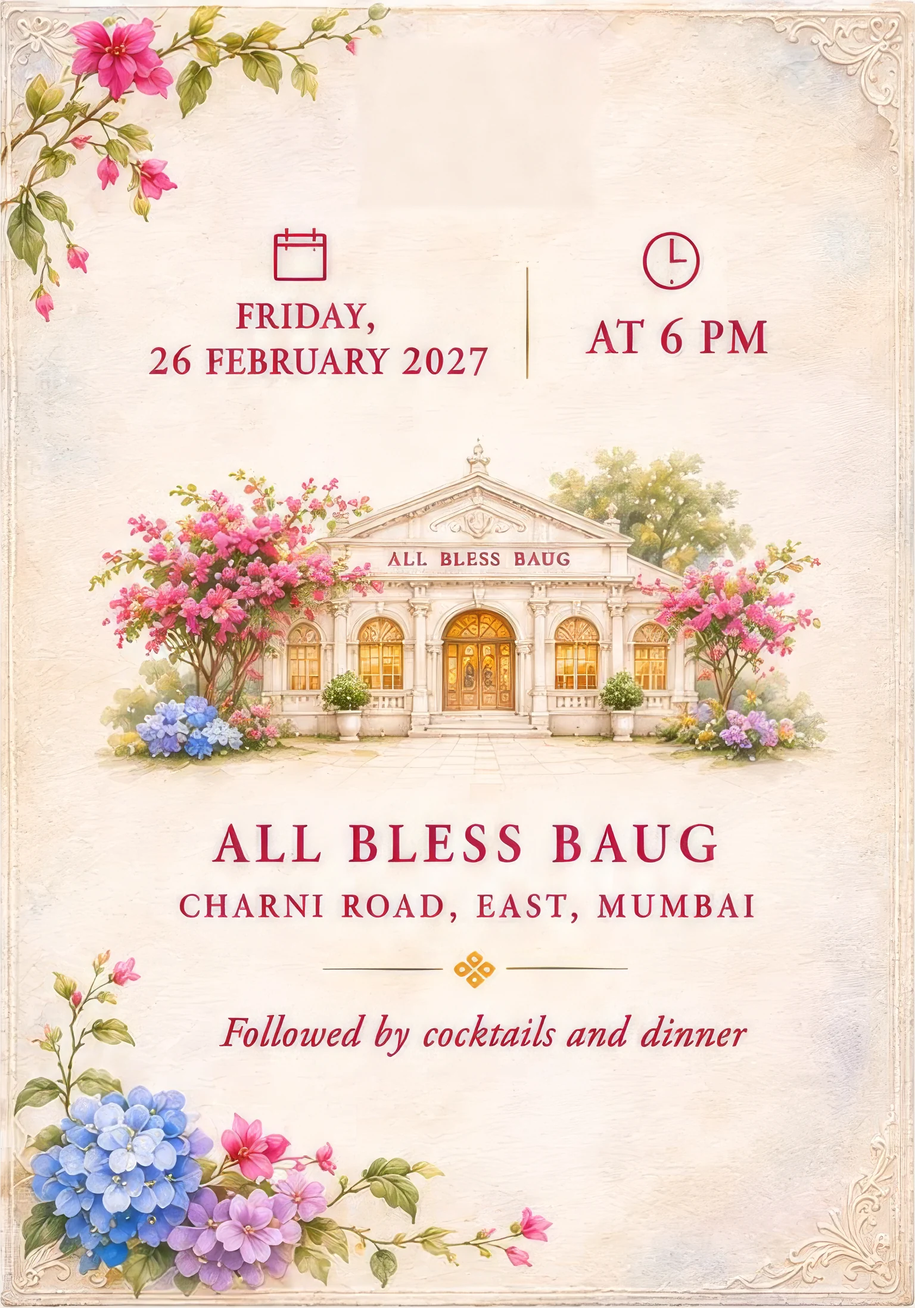
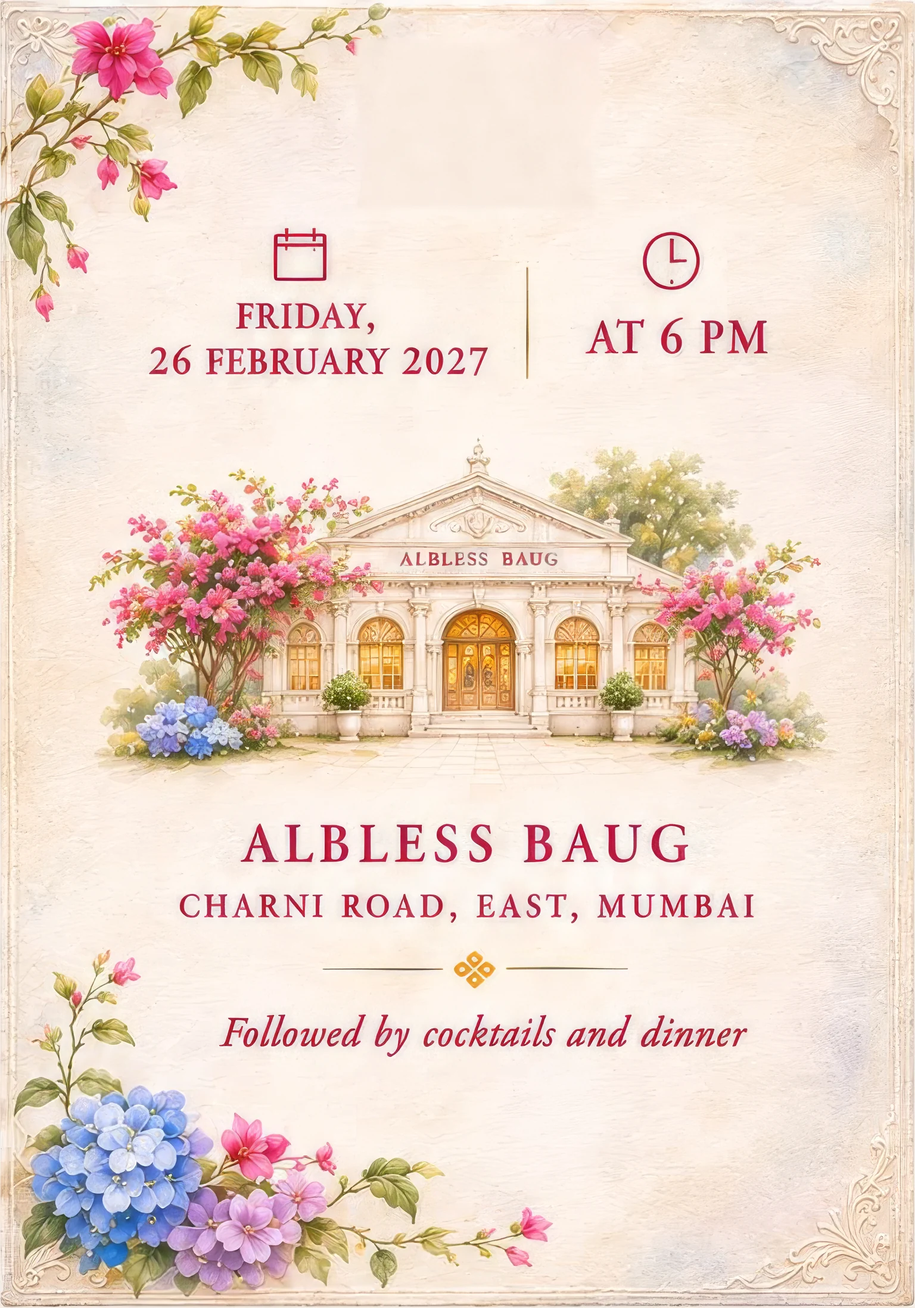
Bluebird preview: Albless Baug spelling and page-3 hummingbird
- Venue reads "Albless Baug" on the venue page and the building's sign,
  re-laid from the design's own letters (done by the RSVP session at the
  owner's request), with matching page text.
- Page 3: a watercolour hummingbird brings a bougainvillea blossom, hovers
  by the ses and drops petals onto the tray each time the page opens.

Changed region(s): [[0.25, 0.6193, 0.7812, 0.6812], [0.4375, 0.4026, 0.625, 0.4335]]

diff --git a/bluebird/bluebird-art.css b/bluebird/bluebird-art.css
@@ -26,3 +26,36 @@
 .print-invitation .print-emblem{left:37.331%;top:15.315%;width:24.565%}
 .print-details .print-emblem{left:39.844%;top:4.838%;width:24.805%}
 .print-families .print-emblem{left:37.137%;top:4.662%;width:24.758%}
+
+/* Page 3: a hummingbird brings a bougainvillea blossom, hovers over the ses and drops petals onto the tray.
+   Plays each time page 3 becomes the open page (app.js sets aria-hidden on the leaves). */
+.hb-flight{position:absolute;left:52.5%;top:51.5%;width:27.0%;aspect-ratio:1.1808;z-index:4;pointer-events:none;opacity:0}
+.hb-flight>span{position:absolute;inset:0;background:url("../assets/art/bluebird/hummingbird-hover.webp?v=bluebird-8") 0 0/400% 100% no-repeat;animation:hb-wingbeat .16s steps(4,jump-none) infinite;filter:drop-shadow(0 4px 5px rgba(60,40,50,.18))}
+@keyframes hb-wingbeat{from{background-position:0 0}to{background-position:100% 0}}
+.leaf[data-page="3"][aria-hidden="false"] .hb-flight{animation:hb-visit 5.6s .5s cubic-bezier(.4,.05,.45,.95) both}
+@keyframes hb-visit{0%{opacity:1;transform:translate(215%,-70%) rotate(-6deg)}22%{opacity:1;transform:translate(0,0) rotate(0)}30%{transform:translate(-2%,-5%)}38%{transform:translate(1%,2%)}46%{transform:translate(-3%,-4%)}54%{transform:translate(0,3%)}62%{opacity:1;transform:translate(-6%,0) rotate(2deg)}82%{opacity:1;transform:translate(-160%,-190%) rotate(-12deg)}100%{opacity:0;transform:translate(-380%,-430%) rotate(-16deg)}}
+.fall-petal{position:absolute;z-index:3;height:auto;pointer-events:none;opacity:0}
+.fall-petal--1{left:37.03%;top:83.88%;width:7.93%}
+.leaf[data-page="3"][aria-hidden="false"] .fall-petal--1{animation:petal-fall-1 2.3s 2.05s cubic-bezier(.35,.1,.6,1) both}
+@keyframes petal-fall-1{0%{opacity:0;transform:translate(234%,-1242%) rotate(0) scale(.55)}6%{opacity:1}35%{transform:translate(75%,-770%) rotate(28deg) scale(.8)}70%{transform:translate(89%,-273%) rotate(-22deg) scale(.95)}100%{opacity:1;transform:translate(0,0) rotate(-14deg) scale(1)}}
+.fall-petal--2{left:49.05%;top:86.28%;width:6.90%}
+.leaf[data-page="3"][aria-hidden="false"] .fall-petal--2{animation:petal-fall-2 2.3s 2.5s cubic-bezier(.35,.1,.6,1) both}
+@keyframes petal-fall-2{0%{opacity:0;transform:translate(102%,-1333%) rotate(0) scale(.55)}6%{opacity:1}35%{transform:translate(133%,-826%) rotate(-18deg) scale(.8)}70%{transform:translate(-22%,-293%) rotate(14deg) scale(.95)}100%{opacity:1;transform:translate(0,0) rotate(9deg) scale(1)}}
+.fall-petal--3{left:58.62%;top:83.17%;width:6.77%}
+.leaf[data-page="3"][aria-hidden="false"] .fall-petal--3{animation:petal-fall-3 2.3s 2.95s cubic-bezier(.35,.1,.6,1) both}
+@keyframes petal-fall-3{0%{opacity:0;transform:translate(-36%,-1122%) rotate(0) scale(.55)}6%{opacity:1}35%{transform:translate(-92%,-696%) rotate(12deg) scale(.8)}70%{transform:translate(35%,-247%) rotate(-10deg) scale(.95)}100%{opacity:1;transform:translate(0,0) rotate(-6deg) scale(1)}}
+.fall-petal--4{left:43.71%;top:81.69%;width:6.58%}
+.leaf[data-page="3"][aria-hidden="false"] .fall-petal--4{animation:petal-fall-4 2.3s 3.4s cubic-bezier(.35,.1,.6,1) both}
+@keyframes petal-fall-4{0%{opacity:0;transform:translate(191%,-1264%) rotate(0) scale(.55)}6%{opacity:1}35%{transform:translate(188%,-784%) rotate(-34deg) scale(.8)}70%{transform:translate(-4%,-278%) rotate(27deg) scale(.95)}100%{opacity:1;transform:translate(0,0) rotate(17deg) scale(1)}}
+.leaf.is-turning .fall-petal{opacity:1}
+/* Ruzbeh's families page has a longer list, so the hummingbird hovers lower there. */
+.print-families--groom .hb-flight{top:56.5%}
+.leaf[data-page="3"][aria-hidden="false"] .print-families--groom .fall-petal--1{animation-name:petal-fall-g1}
+@keyframes petal-fall-g1{0%{opacity:0;transform:translate(200%,-905%) rotate(0) scale(.55)}6%{opacity:1}35%{transform:translate(54%,-561%) rotate(28deg) scale(.8)}70%{transform:translate(82%,-199%) rotate(-22deg) scale(.95)}100%{opacity:1;transform:translate(0,0) rotate(-14deg) scale(1)}}
+.leaf[data-page="3"][aria-hidden="false"] .print-families--groom .fall-petal--2{animation-name:petal-fall-g2}
+@keyframes petal-fall-g2{0%{opacity:0;transform:translate(63%,-996%) rotate(0) scale(.55)}6%{opacity:1}35%{transform:translate(109%,-618%) rotate(-18deg) scale(.8)}70%{transform:translate(-29%,-219%) rotate(14deg) scale(.95)}100%{opacity:1;transform:translate(0,0) rotate(9deg) scale(1)}}
+.leaf[data-page="3"][aria-hidden="false"] .print-families--groom .fall-petal--3{animation-name:petal-fall-g3}
+@keyframes petal-fall-g3{0%{opacity:0;transform:translate(-76%,-813%) rotate(0) scale(.55)}6%{opacity:1}35%{transform:translate(-117%,-504%) rotate(12deg) scale(.8)}70%{transform:translate(27%,-179%) rotate(-10deg) scale(.95)}100%{opacity:1;transform:translate(0,0) rotate(-6deg) scale(1)}}
+.leaf[data-page="3"][aria-hidden="false"] .print-families--groom .fall-petal--4{animation-name:petal-fall-g4}
+@keyframes petal-fall-g4{0%{opacity:0;transform:translate(150%,-896%) rotate(0) scale(.55)}6%{opacity:1}35%{transform:translate(163%,-555%) rotate(-34deg) scale(.8)}70%{transform:translate(-12%,-197%) rotate(27deg) scale(.95)}100%{opacity:1;transform:translate(0,0) rotate(17deg) scale(1)}}
+@media(prefers-reduced-motion:reduce){.hb-flight{display:none}.fall-petal{opacity:1}.leaf[data-page="3"][aria-hidden="false"] .fall-petal{animation:none;opacity:1}}

diff --git a/bluebird/index.html b/bluebird/index.html
@@ -4,11 +4,11 @@
   <meta charset="utf-8">
   <meta name="viewport" content="width=device-width, initial-scale=1, viewport-fit=cover">
   <meta name="theme-color" content="#f4ebe2">
-  <meta name="description" content="Naazlina and Zarir Patwa invite you to the wedding of Rukhshana with Ruzbeh on Friday, 26 February 2027, 6 PM, All Bless Baug, Mumbai.">
+  <meta name="description" content="Naazlina and Zarir Patwa invite you to the wedding of Rukhshana with Ruzbeh on Friday, 26 February 2027, 6 PM, Albless Baug, Mumbai.">
   <meta name="referrer" content="no-referrer">
   <meta name="robots" content="noindex">
   <meta property="og:title" content="Rukhshana &amp; Ruzbeh · Wedding Invitation">
-  <meta property="og:description" content="Friday, 26 February 2027 · 6 PM · All Bless Baug, Mumbai">
+  <meta property="og:description" content="Friday, 26 February 2027 · 6 PM · Albless Baug, Mumbai">
   <meta property="og:type" content="website">
   <title>Rukhshana &amp; Ruzbeh</title>
   <link rel="icon" href="data:,">
@@ -21,7 +21,7 @@
   <link rel="stylesheet" href="parents-handover.css?v=bluebird-4">
   <link rel="stylesheet" href="real-flowers.css?v=bluebird-4">
   <link rel="stylesheet" href="bluebird.css?v=bluebird-6">
-  <link rel="stylesheet" href="bluebird-art.css?v=bluebird-7">
+  <link rel="stylesheet" href="bluebird-art.css?v=bluebird-9">
   <link rel="stylesheet" href="bluebird-rsvp.css?v=rsvp-2">
   <script src="app.js?v=bluebird-5-rsvp1" defer></script>
 </head>
@@ -112,7 +112,7 @@
         <div class="face face--front">
           <section class="page print-page" aria-label="Page 2 of 4">
             <div class="print-canvas print-details">
-              <img class="print-frame" src="../assets/art/bluebird/frame-venue.webp?v=bluebird-7" alt="Watercolour of All Bless Baug framed by bougainvillea and hydrangeas." draggable="false">
+              <img class="print-frame" src="../assets/art/bluebird/frame-venue.webp?v=albless-1" alt="Watercolour of Albless Baug framed by bougainvillea and hydrangeas." draggable="false">
               <button class="print-emblem card-luck" type="button" aria-label="Gold Farohar — a little wedding surprise"><img src="../assets/art/bluebird/farohar-gold.webp?v=bluebird-7" alt="" draggable="false"></button>
               <a class="print-when" draggable="false" href="../assets/wedding.ics" download="Rukhshana-and-Ruzbeh-wedding.ics" aria-label="Friday, 26 February 2027 at 6 PM. Add to calendar">
                 <span class="print-when-day">
@@ -126,8 +126,8 @@
                   <time class="print-time" datetime="2027-02-26T18:00:00+05:30">At 6 PM</time>
                 </span>
               </a>
-              <a class="print-where" draggable="false" href="https://www.google.com/maps/place/Albless+Baug/@18.953686,72.8177563,17z/data=!3m1!4b1!4m6!3m5!1s0x3be7ce10720809ad:0x56cddf22df4ffea0!8m2!3d18.953686!4d72.8177563!16s%2Fg%2F11j007p5cn" target="_blank" rel="noopener noreferrer" aria-label="All Bless Baug, Charni Road East, Mumbai. Open in Google Maps">
-                <span class="print-venue">All Bless Baug</span>
+              <a class="print-where" draggable="false" href="https://www.google.com/maps/place/Albless+Baug/@18.953686,72.8177563,17z/data=!3m1!4b1!4m6!3m5!1s0x3be7ce10720809ad:0x56cddf22df4ffea0!8m2!3d18.953686!4d72.8177563!16s%2Fg%2F11j007p5cn" target="_blank" rel="noopener noreferrer" aria-label="Albless Baug, Charni Road East, Mumbai. Open in Google Maps">
+                <span class="print-venue">Albless Baug</span>
                 <span class="print-address">Charni Road, East, Mumbai</span>
               </a>
               <span class="gold-rule print-details-rule" aria-hidden="true"><i></i></span>
@@ -142,6 +142,11 @@
           <section class="page print-page" id="families" aria-label="Page 3 of 4">
             <div class="print-canvas print-families">
               <img class="print-frame" src="../assets/art/bluebird/frame-families.webp?v=bluebird-7" data-groom-src="../assets/art/bluebird/frame-families-groom.webp?v=bluebird-7" alt="Watercolour of the silver ses tray with flowers." draggable="false">
+              <span class="hb-flight" aria-hidden="true"><span></span></span>
+              <img class="fall-petal fall-petal--1" src="../assets/art/bluebird/petal-1.webp?v=bluebird-9" alt="" draggable="false">
+              <img class="fall-petal fall-petal--2" src="../assets/art/bluebird/petal-2.webp?v=bluebird-9" alt="" draggable="false">
+              <img class="fall-petal fall-petal--3" src="../assets/art/bluebird/petal-3.webp?v=bluebird-9" alt="" draggable="false">
+              <img class="fall-petal fall-petal--4" src="../assets/art/bluebird/petal-4.webp?v=bluebird-9" alt="" draggable="false">
               <button class="print-emblem card-luck" type="button" aria-label="Gold Farohar — a little wedding surprise"><img src="../assets/art/bluebird/farohar-gold.webp?v=bluebird-7" alt="" draggable="false"></button>
               <h2 class="print-heading print-heading--blessings"><img src="../assets/art/bluebird/word-blessings.webp?v=bluebird-4" alt="Blessings" draggable="false"></h2>
               <span class="gold-rule print-flourish print-flourish--blessings" aria-hidden="true"><i></i></span>
